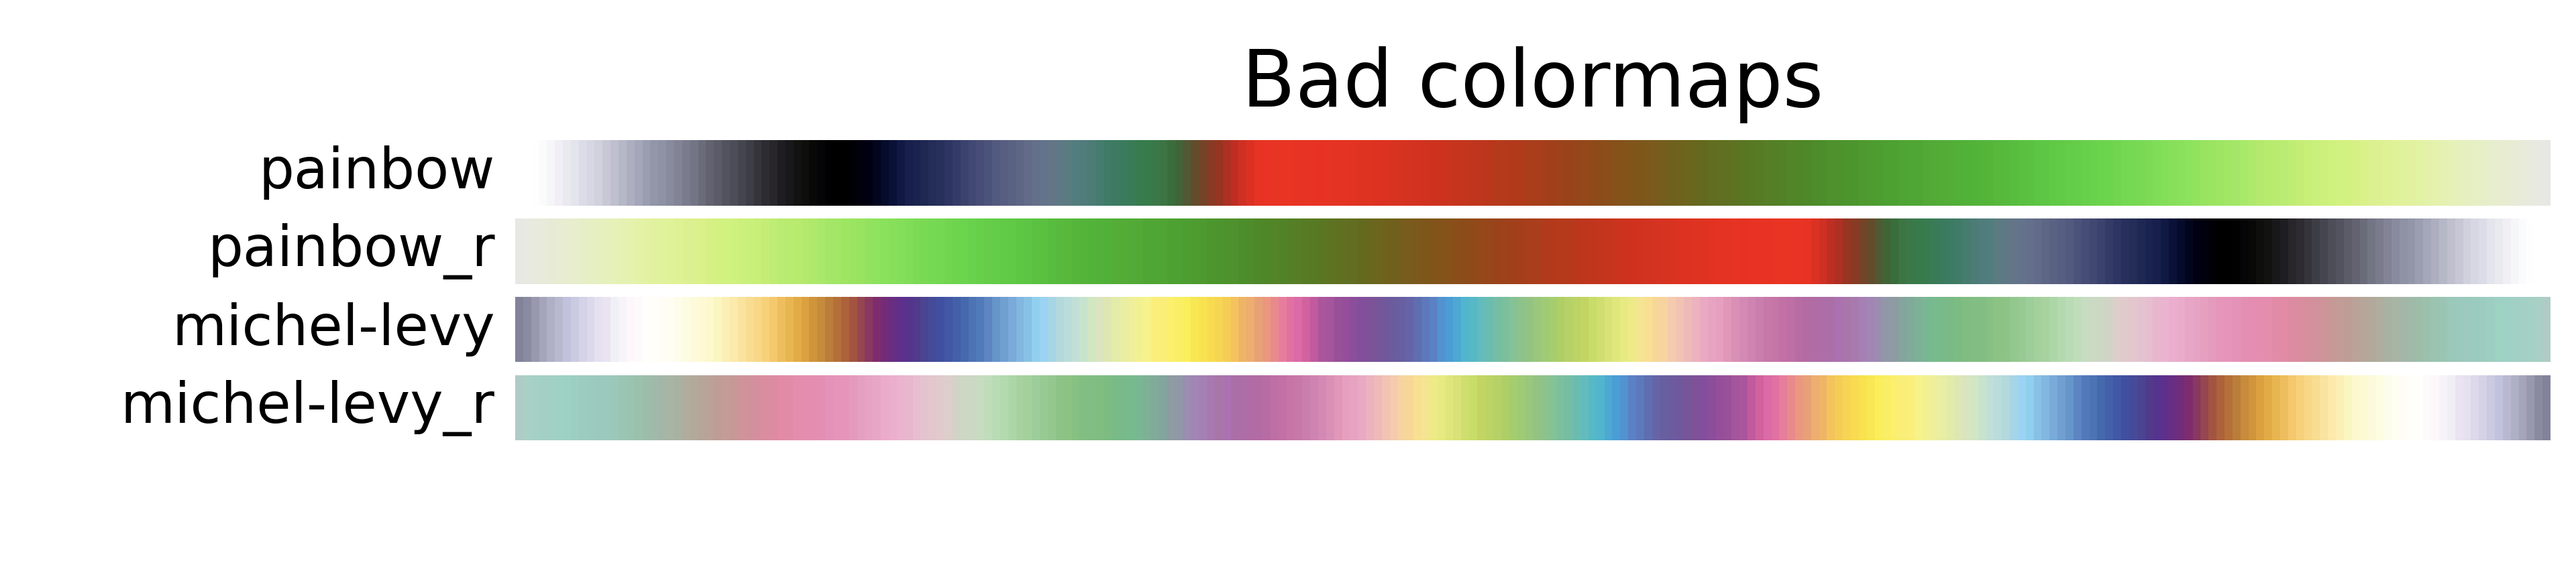
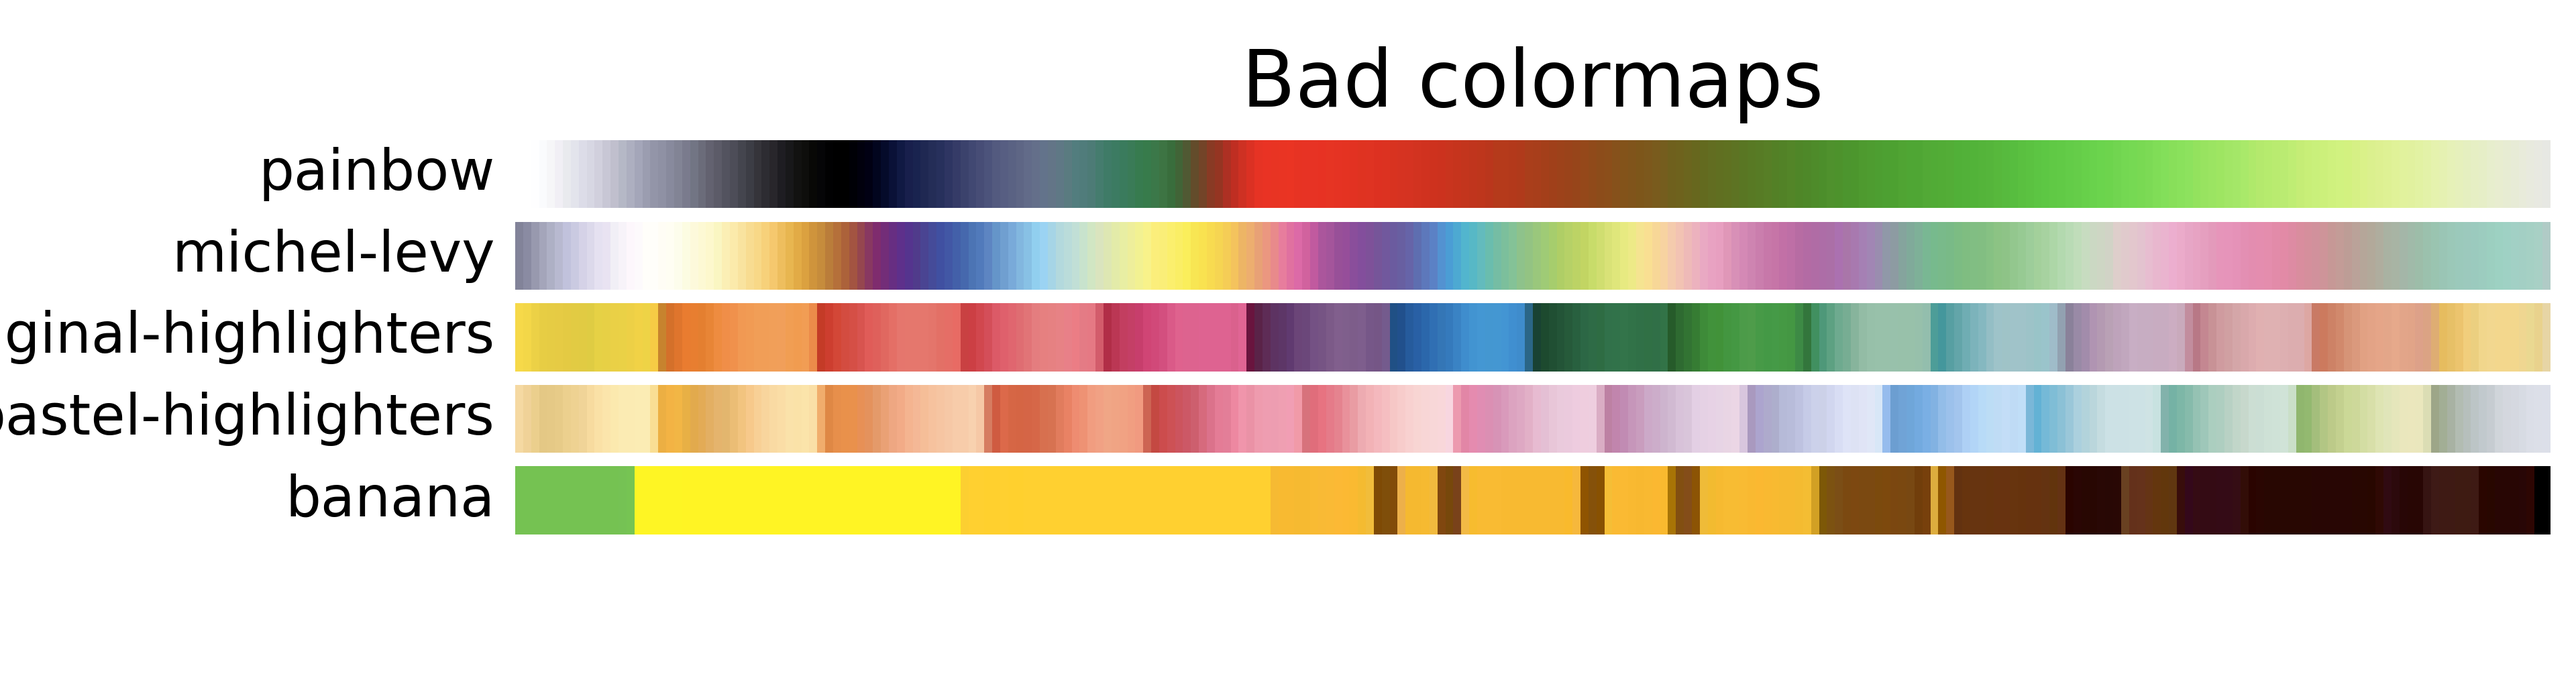
Added new color maps

diff --git a/tests/test.py b/tests/test.py
@@ -44,7 +44,13 @@ def plot_color_gradients(category, cmap_list):
 
 plot_color_gradients(
     "Bad",
-    ["painbow", "painbow_r", "michel-levy", "michel-levy_r"],
+    [
+        "painbow",
+        "michel-levy",
+        "original-highlighters",
+        "pastel-highlighters",
+        "banana",
+    ],
 )
 plt.savefig("../figs/bad_color_maps.png", dpi=600)
 plt.show()

diff --git a/scripts/generate_color_maps_lists.py b/scripts/generate_color_maps_lists.py
@@ -1,7 +1,15 @@
 import numpy as np
 from PIL import Image
 
-images = ["painbow", "michel-levy"]
+images = [
+    "painbow",
+    "michel-levy",
+    "michel-levy-sRGB",
+    "michel-levy-ProPhoto",
+    "banana",
+    "original-highlighters",
+    "pastel-highlighters",
+]
 
 for image in images:
     img = Image.open(f"{image}.png")

diff --git a/README.md b/README.md
@@ -2,6 +2,8 @@
 
 Some bad color maps for [Matplotlib](https://matplotlib.org/) to make plotting amusing figures easier.
 
+![Painbow Color Map](https://imgs.xkcd.com/comics/painbow_award.png)
+
 ## Color maps
 
 ![Bad Color Maps](https://raw.githubusercontent.com/0thomasholland/bad-color-map/refs/heads/main/figs/bad_color_maps.png)
